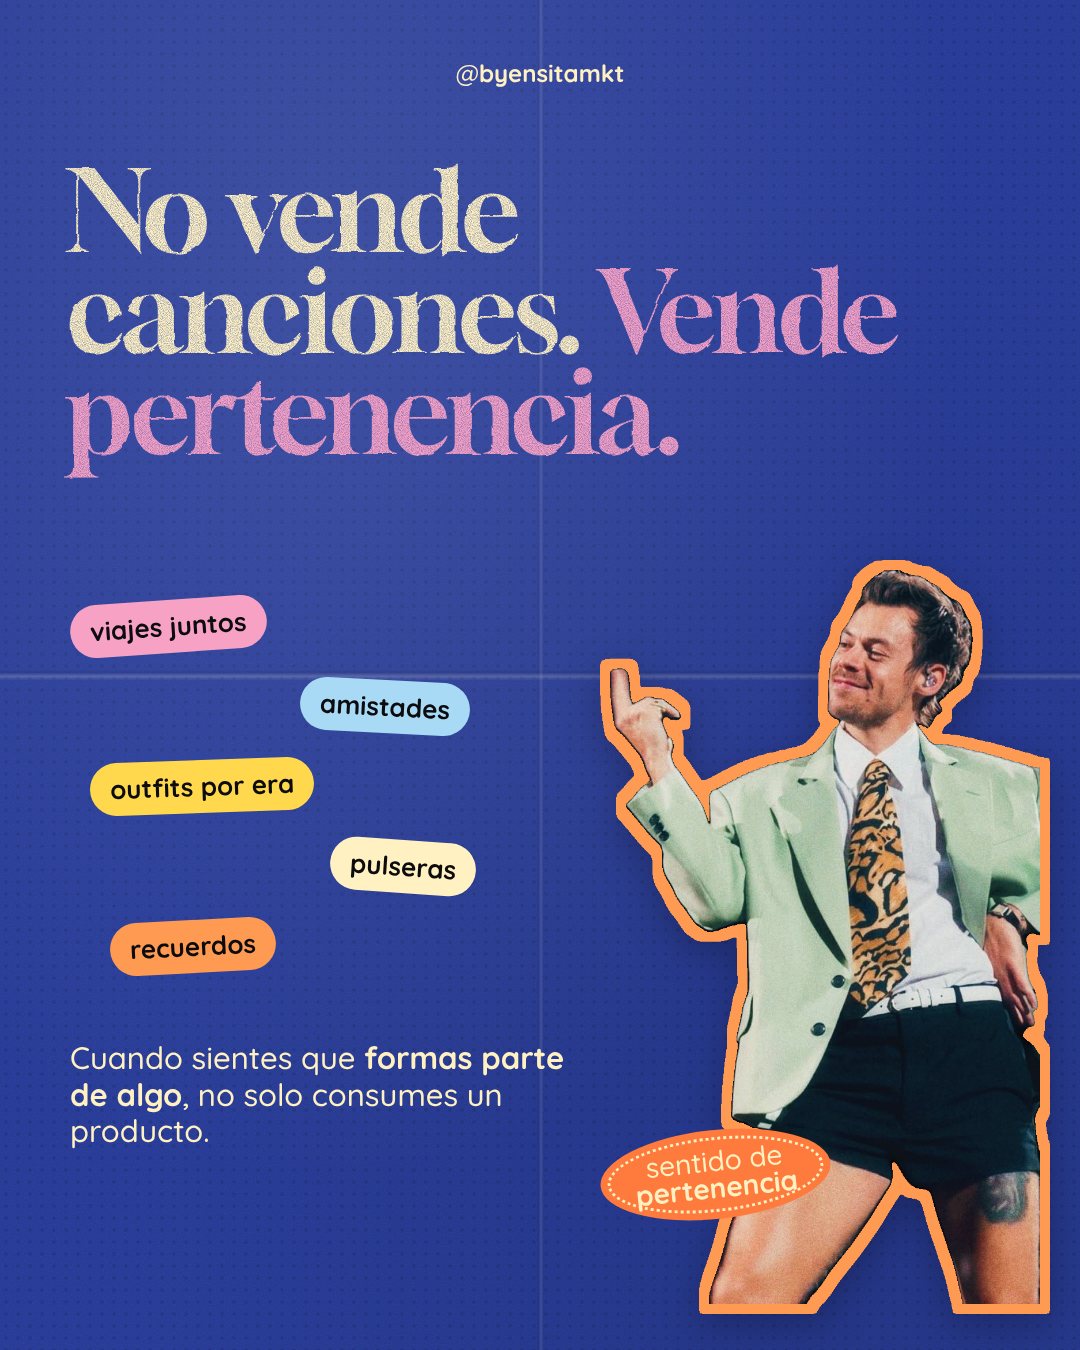
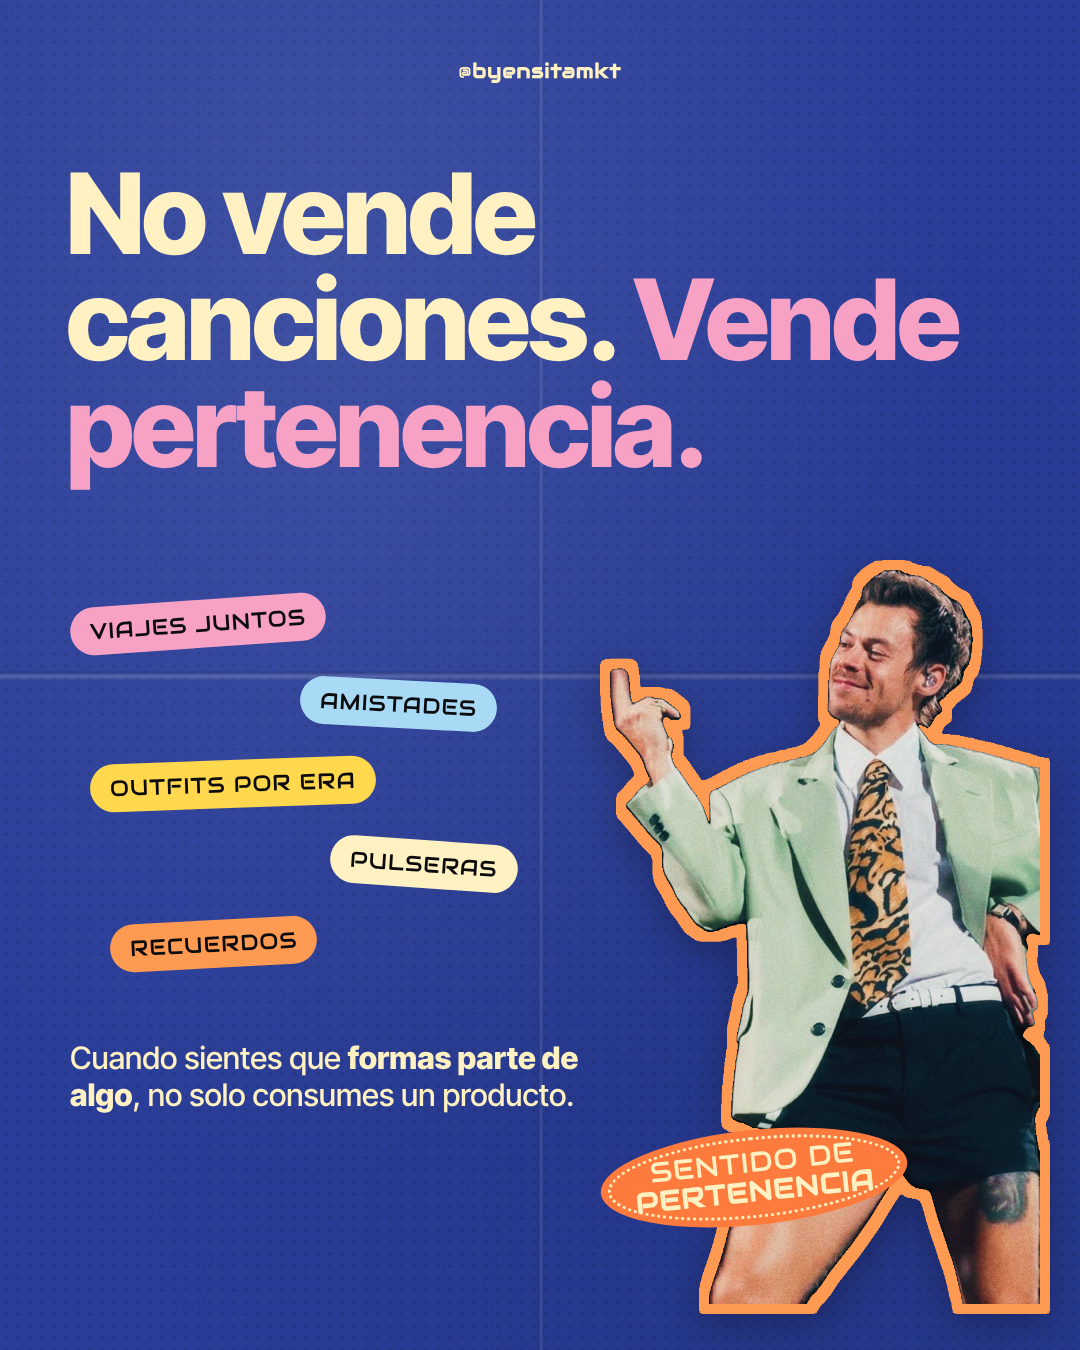
Carrusel Harry v2: tipografía estilo Together (sans + degradado) y Kiss All The Time
Claude-Session: https://claude.ai/code/session_01EttaFwFcyCceR8tBVwHGLn

diff --git a/carrusel-harry/harry-v2.html b/carrusel-harry/harry-v2.html
@@ -11,21 +11,23 @@
   }
   *{box-sizing:border-box;margin:0;padding:0}
   body{background:#222;display:flex;flex-direction:column;gap:40px;align-items:center;padding:40px 0}
-  .slide{position:relative;width:1080px;height:1350px;overflow:hidden;font-family:"Quicksand",sans-serif;color:var(--crema)}
+  .slide{position:relative;width:1080px;height:1350px;overflow:hidden;font-family:"Inter Tight",sans-serif;color:var(--crema)}
   .abs{position:absolute}
   .layer{position:absolute;inset:0;pointer-events:none}
 
   /* tipografía (2 familias, como la referencia) */
-  .serif{font-family:"Gloock",serif;line-height:.9;letter-spacing:-2.5px;filter:url(#ink)}
+  .serif{font-family:"Inter Tight",sans-serif;font-weight:800;line-height:.95;letter-spacing:-3px}
+  .tg{background:linear-gradient(180deg,#ff6aa2 0%,#ff9a52 55%,#ffd84d 100%);-webkit-background-clip:text;background-clip:text;color:transparent}
+  .tgb{background:linear-gradient(180deg,#ff8fc0 0%,#8fd0ff 100%);-webkit-background-clip:text;background-clip:text;color:transparent}
   .body{font-weight:500;font-size:34px;line-height:1.18}
-  .body b{font-weight:700}
-  .top{position:absolute;top:58px;font-size:24px;font-weight:500}
+  .body b{font-weight:800}
+  .top{position:absolute;top:58px;font-size:20px;font-weight:500;font-family:"Audiowide";letter-spacing:1px}
   .top b{font-weight:700}
   .grad{background:var(--grad);-webkit-background-clip:text;background-clip:text;color:transparent}
 
   /* badge ovalado con borde punteado */
   .badge{position:absolute;display:flex;flex-direction:column;align-items:center;justify-content:center;text-align:center;
-    background:var(--naranja);color:var(--crema);border-radius:50%;font-weight:500;font-size:32px;line-height:.95;padding:18px 34px;
+    background:var(--naranja);color:var(--crema);border-radius:50%;font-family:"Audiowide";font-size:24px;line-height:1.05;text-transform:uppercase;letter-spacing:1px;padding:18px 34px;
     outline:3px dotted var(--crema);outline-offset:-10px}
   .badge b{font-weight:700}
 
@@ -38,7 +40,7 @@
   .frame{position:absolute;padding:24px 24px 90px}
   .frame img{display:block;width:100%;height:100%;object-fit:cover}
   .cut{position:absolute;filter:drop-shadow(0 12px 18px rgba(0,0,0,.25))}
-  .tag{position:absolute;font-weight:700;font-size:26px;padding:10px 20px;border-radius:999px;white-space:nowrap;color:var(--negro)}
+  .tag{position:absolute;font-family:"Audiowide";font-size:22px;text-transform:uppercase;letter-spacing:1px;padding:10px 20px;border-radius:999px;white-space:nowrap;color:var(--negro)}
 
   svg.deco{position:absolute;overflow:visible;pointer-events:none}
 </style>
@@ -65,7 +67,7 @@
   <div class="top" style="left:70px">@<b>byensitamkt</b></div>
   <div class="top" style="right:70px"><b>Marketing</b> + pop</div>
   <img class="cut" src="cut/saludo.png" style="right:-30px;bottom:-60px;width:560px">
-  <div class="abs serif" style="left:66px;top:190px;width:520px;font-size:116px">Una comunidad que no desaparece</div>
+  <div class="abs serif tg" style="left:66px;top:190px;width:620px;font-size:100px">Una comunidad que no desaparece</div>
   <div class="badge" style="left:70px;top:760px;transform:rotate(-7deg);background:var(--rosaf)">el marketing de<br><b>Harry Styles</b></div>
   <svg class="deco kstar" data-text="KISS ALL THE TIME. " data-c="#f7a1c4" style="left:600px;top:130px" width="210" height="210"></svg>
   <svg class="deco sstar" data-c="#ffd84d" style="left:470px;top:1100px" width="90" height="90"></svg>
@@ -75,10 +77,10 @@
 <section class="slide" id="s2" style="background:var(--naranja)">
   <div class="tex" data-fold="1"></div>
   <div class="top" style="left:0;right:0;text-align:center">@<b>byensitamkt</b></div>
-  <div class="abs serif" style="left:66px;top:170px;width:560px;font-size:168px">Tres años sin gira.</div>
+  <div class="abs serif" style="left:66px;top:170px;width:560px;font-size:150px">Tres años sin gira.</div>
   <div class="stamp" style="left:640px;top:170px;width:380px;height:500px;transform:rotate(3deg)"><img src="img/escenario.jpg" style="object-position:50% 55%"></div>
-  <img class="cut" src="cut/reloj.png" style="left:110px;top:770px;width:280px;transform:rotate(-10deg)">
-  <div class="abs body" style="left:450px;top:760px;width:570px">Y la emoción seguía intacta. Sus fans siguieron <b>compartiendo recuerdos, creando contenido</b> y conectando entre ellos.</div>
+  <img class="cut" src="cut/reloj.png" style="left:110px;top:820px;width:280px;transform:rotate(-10deg)">
+  <div class="abs body" style="left:450px;top:800px;width:570px">Y la emoción seguía intacta. Sus fans siguieron <b>compartiendo recuerdos, creando contenido</b> y conectando entre ellos.</div>
   <div class="badge" style="left:600px;top:1080px;transform:rotate(-6deg);background:var(--royal)">¿cómo lo<br><b>logró?</b></div>
 </section>
 
@@ -125,7 +127,7 @@
       <text x="14" y="265" fill="#0c0c0e">TOGETHER</text>
     </g>
   </svg>
-  <div class="abs serif" style="left:66px;top:480px;width:620px;font-size:104px">La música se vive distinto cuando la <span class="grad">compartes.</span></div>
+  <div class="abs serif" style="left:66px;top:480px;width:620px;font-size:96px">La música se vive distinto cuando la <span class="tg">compartes.</span></div>
   <div class="stamp" style="left:720px;top:470px;width:310px;height:420px;transform:rotate(-4deg)"><img src="img/night06.jpg" style="object-position:50% 25%"></div>
   <img class="cut" src="cut/bola.png" style="left:820px;top:850px;width:190px;border-radius:50%;filter:drop-shadow(0 0 30px rgba(255,255,255,.35))">
   <div class="abs body" style="left:70px;top:960px;width:600px">Cantar con miles, reencontrarte con amigos y <b>crear recuerdos.</b></div>
@@ -166,7 +168,7 @@
   <svg class="deco kstar" data-text="KISS ALL THE TIME. " data-c="#f7a1c4" style="left:400px;top:560px" width="200" height="200"></svg>
   <div class="abs body" style="left:70px;top:780px;width:620px;font-size:30px;color:var(--rosaf)">Las marcas más fuertes no son las que más venden. Son las que <b style="text-decoration:underline;text-underline-offset:5px">crean conexiones que la gente quiere mantener.</b></div>
   <div class="abs serif" style="left:66px;top:1000px;width:700px;font-size:104px">¿Tu marca da ganas de quedarse?</div>
-  <div class="badge" style="left:780px;top:1120px;transform:rotate(-6deg);font-size:26px">te leo en<br><b>comentarios</b></div>
+  <div class="badge" style="left:720px;top:1110px;transform:rotate(-6deg);font-size:26px">te leo en<br><b>comentarios</b></div>
 </section>
 
 <style>

diff --git a/carrusel-harry/fonts.css b/carrusel-harry/fonts.css
@@ -348,3 +348,19 @@
   src: url(fonts/6xKtdSZaM9iE8KbpRA_hK1QN.woff2) format('woff2');
   unicode-range: U+0000-00FF, U+0131, U+0152-0153, U+02BB-02BC, U+02C6, U+02DA, U+02DC, U+0304, U+0308, U+0329, U+2000-206F, U+20AC, U+2122, U+2191, U+2193, U+2212, U+2215, U+FEFF, U+FFFD;
 }
+@font-face {
+  font-family: 'Audiowide';
+  font-style: normal;
+  font-weight: 400;
+  font-display: swap;
+  src: url(fonts/l7gdbjpo0cum0ckerWCdmA_OIxo.woff2) format('woff2');
+  unicode-range: U+0100-02BA, U+02BD-02C5, U+02C7-02CC, U+02CE-02D7, U+02DD-02FF, U+0304, U+0308, U+0329, U+1D00-1DBF, U+1E00-1E9F, U+1EF2-1EFF, U+2020, U+20A0-20AB, U+20AD-20C4, U+2113, U+2C60-2C7F, U+A720-A7FF;
+}
+@font-face {
+  font-family: 'Audiowide';
+  font-style: normal;
+  font-weight: 400;
+  font-display: swap;
+  src: url(fonts/l7gdbjpo0cum0ckerWCdlg_O.woff2) format('woff2');
+  unicode-range: U+0000-00FF, U+0131, U+0152-0153, U+02BB-02BC, U+02C6, U+02DA, U+02DC, U+0304, U+0308, U+0329, U+2000-206F, U+20AC, U+2122, U+2191, U+2193, U+2212, U+2215, U+FEFF, U+FFFD;
+}
